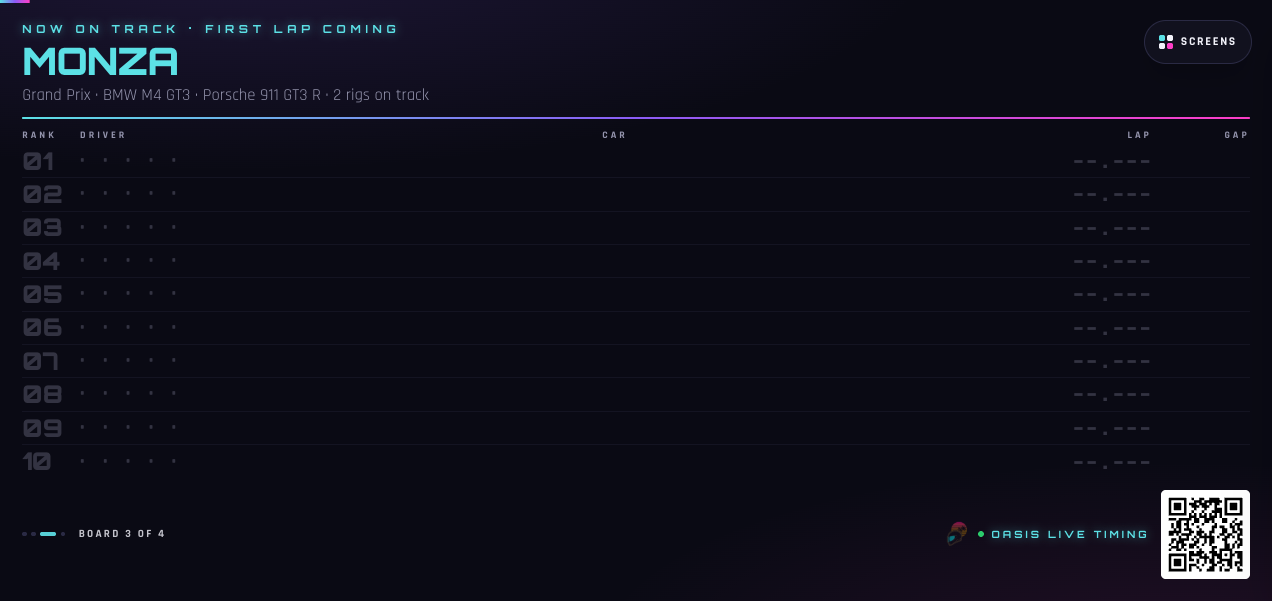
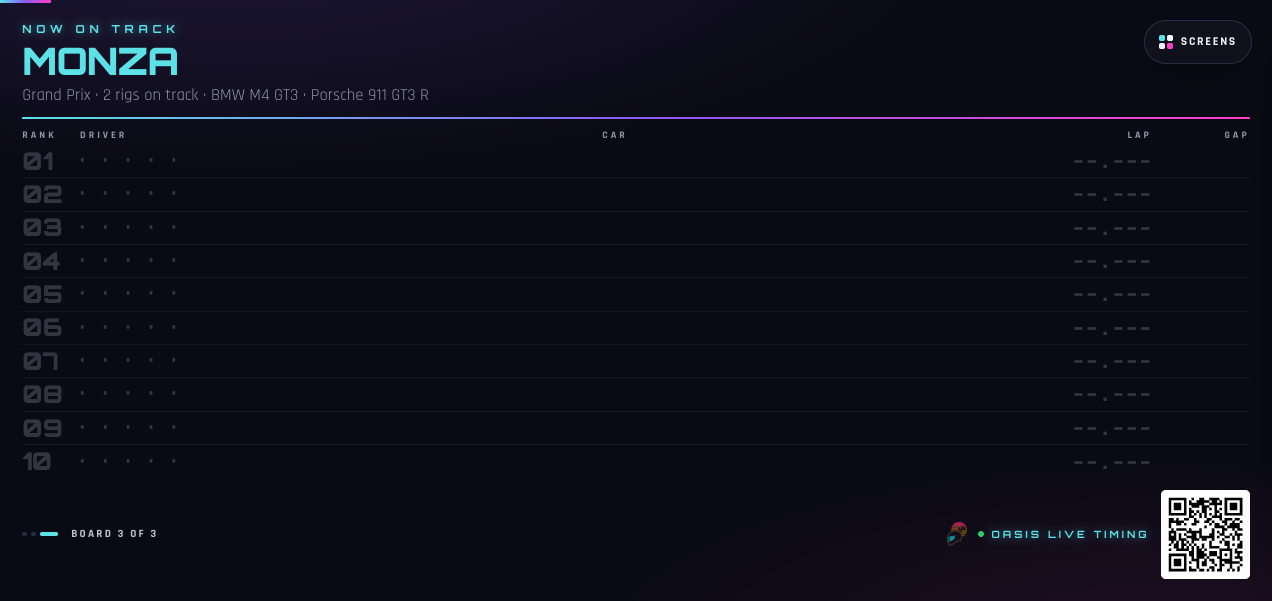
no-mistakes(review): Limit live tracks to featured combo; neutral "Now on track

diff --git a/apps/web/src/lib/leaderboards.ts b/apps/web/src/lib/leaderboards.ts
@@ -12,6 +12,8 @@
  * to empty. There's no tracks table; combos are read straight off laps.
  */
 
+import { type FeaturedCombo, comboMismatch } from "./validity";
+
 /** A board is one track layout (track_name + track_config). The car isn't part
  *  of board identity — a driver's fastest lap is ranked across any car and the
  *  car is shown on the row. Layout (config) stays in identity because a
@@ -69,6 +71,11 @@ export function trackLabel(t: { track_name: string; track_config: string | null 
  * owner asked for (2026-10-23): a driver on an out-lap at a new track should
  * already see it on the screen. Heartbeats carry no driver, so neither does
  * this; it is a track, the cars seen on it, and how many rigs reported it.
+ *
+ * On a day with a featured combo only a rig in that combo counts (`liveTracks`
+ * below): a lap anywhere else is stored invalid at ingestion and never ranks,
+ * so its track would sit on the wall with every slot open for as long as the
+ * rig drove it. The owner's rule (2026-10-24).
  */
 export type LiveTrack = {
   track_name: string;
@@ -90,6 +97,56 @@ export type LiveTrack = {
  * minute, so the window always holds several of them for a rig still there.
  */
 export const LIVE_TRACK_WINDOW_MINUTES = 15;
+
+/** One rig's reported session inside the live window, as the heartbeats name it. */
+export type LiveSession = {
+  rig_id: string;
+  track_name: string;
+  track_config: string | null;
+  car_name: string | null;
+};
+
+/**
+ * Groups the rigs' sessions into live tracks, in the order given. With a
+ * featured combo set for the day, a session counts only if ingestion's own
+ * `comboMismatch` would let its laps rank; with none, every session counts.
+ * A null layout and an empty one are one track, as everywhere else.
+ */
+export function liveTracks(
+  sessions: LiveSession[],
+  combo: Pick<FeaturedCombo, "track_name" | "track_config" | "car_name"> | null,
+): LiveTrack[] {
+  const tracks = new Map<string, { track: LiveTrack; cars: Set<string>; rigs: Set<string> }>();
+  for (const session of sessions) {
+    if (
+      combo &&
+      comboMismatch(combo, {
+        trackName: session.track_name,
+        trackConfig: session.track_config,
+        carName: session.car_name ?? "",
+      })
+    ) {
+      continue;
+    }
+    const key = trackKey(session);
+    let entry = tracks.get(key);
+    if (!entry) {
+      entry = {
+        track: { track_name: session.track_name, track_config: session.track_config, car_names: [], rig_count: 0 },
+        cars: new Set(),
+        rigs: new Set(),
+      };
+      tracks.set(key, entry);
+    }
+    entry.rigs.add(session.rig_id);
+    if (session.car_name !== null) entry.cars.add(session.car_name);
+  }
+  return [...tracks.values()].map(({ track, cars, rigs }) => ({
+    ...track,
+    car_names: [...cars].sort((a, b) => a.localeCompare(b, "en")),
+    rig_count: rigs.size,
+  }));
+}
 
 /**
  * What `/api/leaderboards/boards` answers and the `/tv` page seeds the wall

diff --git a/apps/web/src/lib/leaderboards-queries.ts b/apps/web/src/lib/leaderboards-queries.ts
@@ -1,11 +1,14 @@
-import { query } from "./db";
+import { query, queryOne } from "./db";
 import {
   type Board,
   type BoardRow,
   type BoardWindow,
   LIVE_TRACK_WINDOW_MINUTES,
+  type LiveSession,
   type LiveTrack,
+  liveTracks,
 } from "./leaderboards";
+import type { FeaturedCombo } from "./validity";
 
 /**
  * Server-only leaderboard queries (imports pg). Kept separate from
@@ -93,28 +96,30 @@ export async function getBoard(
  * last fifteen minutes of each rig's rows and nothing else, however much
  * history the table holds. Tracks with laps come back too when a rig is on
  * them; `buildRotation` keeps those on their laps and uses only the rest.
+ * On a day with a featured combo, only rigs in that combo count
+ * (`liveTracks`).
  */
 export async function listLiveTracks(): Promise<LiveTrack[]> {
-  return query<LiveTrack>(
-    `select live.track_name,
-            live.track_config,
-            coalesce(
-              array_agg(distinct live.car_name order by live.car_name)
-                filter (where live.car_name is not null),
-              '{}'
-            ) as car_names,
-            count(distinct live.rig_id)::int as rig_count
-     from rigs r
-     cross join lateral (
-       select h.rig_id, h.session_track as track_name, h.session_config as track_config,
-              h.session_car as car_name
-       from rig_heartbeats h
-       where h.rig_id = r.id
-         and h.received_at > now() - make_interval(mins => $1)
-         and h.session_track is not null
-     ) live
-     group by live.track_name, live.track_config
-     order by live.track_name asc, coalesce(live.track_config, '') asc`,
-    [LIVE_TRACK_WINDOW_MINUTES],
-  );
+  const [sessions, combo] = await Promise.all([
+    query<LiveSession>(
+      `select live.rig_id, live.track_name, live.track_config, live.car_name
+       from rigs r
+       cross join lateral (
+         select h.rig_id, h.session_track as track_name, h.session_config as track_config,
+                h.session_car as car_name
+         from rig_heartbeats h
+         where h.rig_id = r.id
+           and h.received_at > now() - make_interval(mins => $1)
+           and h.session_track is not null
+       ) live
+       group by live.rig_id, live.track_name, live.track_config, live.car_name
+       order by live.track_name asc, coalesce(live.track_config, '') asc`,
+      [LIVE_TRACK_WINDOW_MINUTES],
+    ),
+    queryOne<Pick<FeaturedCombo, "track_name" | "track_config" | "car_name">>(
+      `select track_name, track_config, car_name
+       from featured_combos where combo_date = venue_today()`,
+    ),
+  ]);
+  return liveTracks(sessions, combo);
 }

diff --git a/apps/web/src/lib/leaderboards.test.ts b/apps/web/src/lib/leaderboards.test.ts
@@ -1,5 +1,5 @@
 import { describe, expect, it } from "vitest";
-import { trackKey, trackLabel } from "./leaderboards";
+import { liveTracks, trackKey, trackLabel } from "./leaderboards";
 
 describe("trackKey", () => {
   it("treats null config as empty", () => {
@@ -22,5 +22,55 @@ describe("trackLabel", () => {
 
   it("omits the config section when null", () => {
     expect(trackLabel({ track_name: "Monza", track_config: null })).toBe("Monza");
+  });
+});
+
+describe("liveTracks", () => {
+  const session = (rig_id: string, track_name: string, track_config: string | null, car_name: string | null) => ({
+    rig_id,
+    track_name,
+    track_config,
+    car_name,
+  });
+  const monza = { track_name: "Monza", track_config: "Grand Prix", car_name: "BMW M4 GT3" };
+
+  it("groups sessions into one track per layout, counting rigs and naming cars once", () => {
+    expect(
+      liveTracks(
+        [
+          session("r1", "Monza", "Grand Prix", "Porsche 911 GT3 R"),
+          session("r1", "Monza", "Grand Prix", "BMW M4 GT3"),
+          session("r2", "Monza", "Grand Prix", "BMW M4 GT3"),
+          session("r3", "Spa", null, null),
+        ],
+        null,
+      ),
+    ).toEqual([
+      { track_name: "Monza", track_config: "Grand Prix", car_names: ["BMW M4 GT3", "Porsche 911 GT3 R"], rig_count: 2 },
+      { track_name: "Spa", track_config: null, car_names: [], rig_count: 1 },
+    ]);
+  });
+
+  it("treats a null layout and an empty one as one track", () => {
+    const tracks = liveTracks([session("r1", "Spa", null, "Ferrari 296 GT3"), session("r2", "Spa", "", "Ferrari 296 GT3")], null);
+    expect(tracks.map((t) => t.rig_count)).toEqual([2]);
+  });
+
+  it("on a featured-combo day keeps only the rigs whose laps would rank", () => {
+    const tracks = liveTracks(
+      [
+        session("r1", "Monza", "Grand Prix", "BMW M4 GT3"),
+        session("r2", "Monza", "Grand Prix", "Porsche 911 GT3 R"),
+        session("r3", "Spa", null, "BMW M4 GT3"),
+        session("r4", "Monza", "Junior", "BMW M4 GT3"),
+        session("r5", "Monza", "Grand Prix", null),
+      ],
+      monza,
+    );
+    expect(tracks).toEqual([{ track_name: "Monza", track_config: "Grand Prix", car_names: ["BMW M4 GT3"], rig_count: 1 }]);
+  });
+
+  it("on a featured-combo day lists nothing when no rig is in the combo", () => {
+    expect(liveTracks([session("r1", "Spa", null, "BMW M4 GT3")], monza)).toEqual([]);
   });
 });

diff --git a/apps/web/src/lib/leaderboards-live.integration.test.ts b/apps/web/src/lib/leaderboards-live.integration.test.ts
@@ -8,6 +8,7 @@ import {
   resetDb,
   seedDriver,
   seedRig,
+  setFeaturedCombo,
   testDb,
 } from "@/test/db";
 
@@ -18,7 +19,8 @@ import {
  * tracks with laps are read by `listBoards()` exactly as before - a heartbeat
  * cannot add or remove one, and a lap on a track a rig is on changes nothing
  * about the live list, since `buildRotation` keeps that track on its laps
- * (`components/tv/board-types.test.tsx`).
+ * (`components/tv/board-types.test.tsx`). On a day with a featured combo,
+ * only a rig in that combo puts its track on the list.
  */
 
 const monza = { track: "Monza", config: "Grand Prix", car: "BMW M4 GT3" };
@@ -118,5 +120,19 @@ describeDb("listLiveTracks against real Postgres", () => {
     const rig = await seedRig(1);
     await heartbeat(rig.id, monza, 1, true);
     expect((await listLiveTracks()).map((t) => t.rig_count)).toEqual([1]);
+  });
+
+  it("on a featured-combo day lists only the combo, whatever else the rigs are on", async () => {
+    await setFeaturedCombo({ trackName: monza.track, trackConfig: monza.config, carName: monza.car });
+    const rig1 = await seedRig(1);
+    const rig2 = await seedRig(2);
+    const rig3 = await seedRig(3);
+    await heartbeat(rig1.id, monza);
+    await heartbeat(rig2.id, { ...monza, car: "Porsche 911 GT3 R" });
+    await heartbeat(rig3.id, { track: "Spa-Francorchamps", config: null, car: monza.car });
+
+    expect(await listLiveTracks()).toEqual([
+      { track_name: "Monza", track_config: "Grand Prix", car_names: ["BMW M4 GT3"], rig_count: 1 },
+    ]);
   });
 });

diff --git a/apps/web/src/components/tv/board-types.tsx b/apps/web/src/components/tv/board-types.tsx
@@ -93,14 +93,15 @@ const TRACK_BOARD = defineTvBoard<TrackSpec, TrackData>({
   Board({ spec, data, stale }) {
     if (data.rows.length === 0 && data.live) {
       return (
-        // The owner's state for a track nobody has lapped yet (2026-10-23):
-        // "now on track, first lap coming". Ten open slots under it are the
+        // The owner's state for a track nobody has lapped yet: "Now on track",
+        // promising no lap (2026-10-24), since one over the incident limit
+        // never ranks. Ten open slots under it are the
         // invitation, exactly as an unclaimed arcade table is anywhere else on
         // this wall. Heartbeats name no driver, so neither does this header -
         // how many rigs are on the track and the cars seen on it, the count
         // first so a long car list truncates and never takes it.
         <ArcadeHighScores
-          eyebrow="Now on track · first lap coming"
+          eyebrow="Now on track"
           title={spec.track_name}
           subtitle={[spec.track_config, rigCount(data.live.rig_count), ...data.live.car_names]
             .filter(Boolean)

diff --git a/apps/web/src/components/tv/board-types.test.tsx b/apps/web/src/components/tv/board-types.test.tsx
@@ -185,7 +185,8 @@ describe("track board on a live track", () => {
     const html = renderToStaticMarkup(
       <track.Board spec={liveSpec} data={data} stale={false} hold={() => {}} />,
     );
-    expect(html).toContain("Now on track · first lap coming");
+    expect(html).toContain("Now on track");
+    expect(html).not.toContain("first lap");
     expect(html).toContain("Monza");
     expect(html).toContain("Grand Prix · 2 rigs on track · BMW M4 GT3 · Porsche 911 GT3 R");
     expect(html).not.toContain("All-time best laps");

diff --git a/README.md b/README.md
@@ -13,7 +13,7 @@ The Wednesday in-house league. Staff open a round from `/staff` against one trac
 - `/league` — season standings across every round, with each driver's per-round breakdown and a strip of rounds to tap into. Open rounds are included, so the board moves while the night is running.
 - `/league/[roundId]` — one round's full field, placed by the race's finishing order with the fastest valid qualifier marked when the round has a race result, and by fastest valid lap when it has none (every round played before race results were recorded); tap a driver to expand all of their laps. Phone-first, this is the post-race comparison.
 - `/tv` — the front-of-store TV carries a league standings board in its rotation, and while a round is open that board takes the screen over: league night owns the wall, the arcade boards have it the rest of the week. Nobody has to take the kiosk off rotation.
-- `/tv` also shows a track the moment a rig loads it, before anyone has finished a lap on it: the rigs' heartbeats name the track, layout and car they are in, and a track no one has lapped yet takes a turn in the rotation as "Now on track · first lap coming" with every slot open, among the tracks where its name falls. It joins within about a minute of a rig reporting it, turns into the ordinary all-time board in place when the first lap lands, and leaves once no rig has reported it for fifteen minutes; tracks with laps stay exactly as before, and the phone's `/leaderboards` picker never lists a track with no laps.
+- `/tv` also shows a track the moment a rig loads it, before anyone has finished a lap on it: the rigs' heartbeats name the track, layout and car they are in, and a track no one has lapped yet takes a turn in the rotation as "Now on track" with every slot open, among the tracks where its name falls. On a day with a featured combo, only rigs in that combo put a track there, since laps anywhere else never rank. It joins within about a minute of a rig reporting it, turns into the ordinary all-time board in place when the first valid lap lands, and leaves once no rig has reported it for fifteen minutes; tracks with laps stay exactly as before, and the phone's `/leaderboards` picker never lists a track with no laps.
 - `/tv?event=1` - the event view for a laptop at an off-site event: one leaderboard of every driver with a lap today in the featured combo, scrolling through itself, with no rotation to other boards. `/tv` itself is unchanged. It can be scrolled by hand on a touch screen, with a wheel, or by dragging it with the mouse (what a touch display on a Mac sends), and goes back to scrolling itself after twenty seconds untouched. `&host=cadillac` puts the event host's logo lockup, crest and wordmark, in the footer (`apps/web/src/lib/tv-host-logo.ts`). Its corner QR code opens the Oasis Sim Racing website rather than the phone leaderboard, so the public at an event never lands on a page whose menu reaches the staff login; `/tv` keeps the leaderboard code. For the same reason the event view shows no Screens menu. On both it and the wall's Fastest tonight board, a time with an asterisk is a lap that had an incident (any iRacing incident); there is no legend, by the owner's choice. Only valid laps rank, and validity is judged once, when the lap arrives, against the featured combo's `incident_limit` at that moment (`computeValidity`), so an incident lap is on the board only if the limit admitted it then; changing the limit later neither ranks nor removes laps already stored. `/staff` writes 0.
 - `/staff` — open a round against a combo, review and correct its race result, close it when the night is over, and at the turn of the month end the season and start the next one (named for the month, in one step, refused while a round is still open).
 

diff --git a/AGENTS.md b/AGENTS.md
@@ -25,8 +25,8 @@ the types and the window are in `lib/leaderboards.ts`). `rotationTracks` in
 `board-types.tsx` is the one place the two lists meet: a live track with no
 laps becomes a track slide under the same key it will have once it has laps,
 slotted among the boards by name, and the track board draws it with every
-slot open under "Now on track · first lap coming" (`TrackSpec.live`). The
-first lap turns it into the ordinary all-time board in place through the
+slot open under "Now on track" (`TrackSpec.live`) - no promise of a lap,
+since one over the incident limit never ranks. The first valid lap turns it into the ordinary all-time board in place through the
 board's own refresh, with no slide change. A track with laps is never touched
 by `live`, and the `/leaderboards` picker reads `listBoards()` directly and
 never sees it. The owner's asks (2026-10-23): on the wall within about a
@@ -34,6 +34,10 @@ minute of a rig reporting it - which is why the engine re-reads its list every
 minute, the one engine constant this touched - gone once no rig has reported
 it for fifteen minutes, and the event view unchanged. Heartbeats name no
 driver, so the live header names cars and a rig count and nothing else.
+On a day with a featured combo only rigs in that combo count (`liveTracks`,
+judged with ingestion's own `comboMismatch`), because a lap anywhere else is
+stored invalid and would leave its track open on the wall all night - the
+owner's rule (2026-10-24).
 
 `/tv?event=1` is the event view for a laptop at an off-site event: one board,
 every driver with a lap today in the featured combo, scrolling on its own
